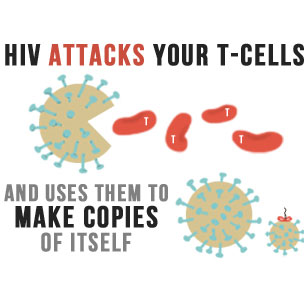
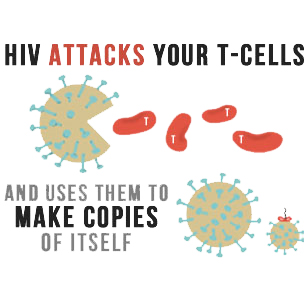
Moving stuff and changing font size

diff --git a/AP Project 4/src/object/DisplayPanel.java b/AP Project 4/src/object/DisplayPanel.java
@@ -142,7 +142,7 @@ public class DisplayPanel extends JPanel {
         else if (GAME_SCREENS[panelType] == "Background") {
 			g2.drawImage(what_is_hiv,0,6,this);
 			g2.drawImage(HIV_invasion, -40, 375, this);
-			g2.drawImage(HIV_attacks, 325, 375, this);
+			g2.drawImage(HIV_attacks, 325, 320, this);
 			
         }
         else if (GAME_SCREENS[panelType] == "Instructions") {
@@ -192,7 +192,7 @@ public class DisplayPanel extends JPanel {
             instructions_img = ImageIO.read(getClass().getResource("/instructions_screen.png"));
             
             // HIV attacks T-cells
-            HIV_attacks = ImageIO.read(getClass().getResource("/HIV_attack.jpg"));
+            HIV_attacks = ImageIO.read(getClass().getResource("/HIV_attack.png"));
             
             // HIV attacks T-cells
             HIV_invasion = ImageIO.read(getClass().getResource("/HIV_invasion.jpg"));

diff --git a/AP Project 4/src/impl/InvasionGame.java b/AP Project 4/src/impl/InvasionGame.java
@@ -635,7 +635,7 @@ public class InvasionGame extends JApplet implements Runnable{
 	        Style red = doc.addStyle("red", def);
 	        StyleConstants.setAlignment(red, StyleConstants.ALIGN_CENTER);
 	        StyleConstants.setFontFamily(red, "Sans Serif");
-	        StyleConstants.setFontSize(red, 14);
+	        StyleConstants.setFontSize(red, 15);
 	        StyleConstants.setForeground(red, Color.RED);
 
 	        Style white = doc.addStyle("white", red);

diff --git a/AP Project 4/src/object/Board.java b/AP Project 4/src/object/Board.java
@@ -825,7 +825,7 @@ public class Board extends JPanel implements Runnable, MouseListener {
 				}
 			}
 
-			if (Math.abs((System.currentTimeMillis() - gameStartTime) % 2000) < 30) {
+			if (Math.abs((System.currentTimeMillis() - gameStartTime) % 2000) < 10) {
 				displayFact();
 			}
 
